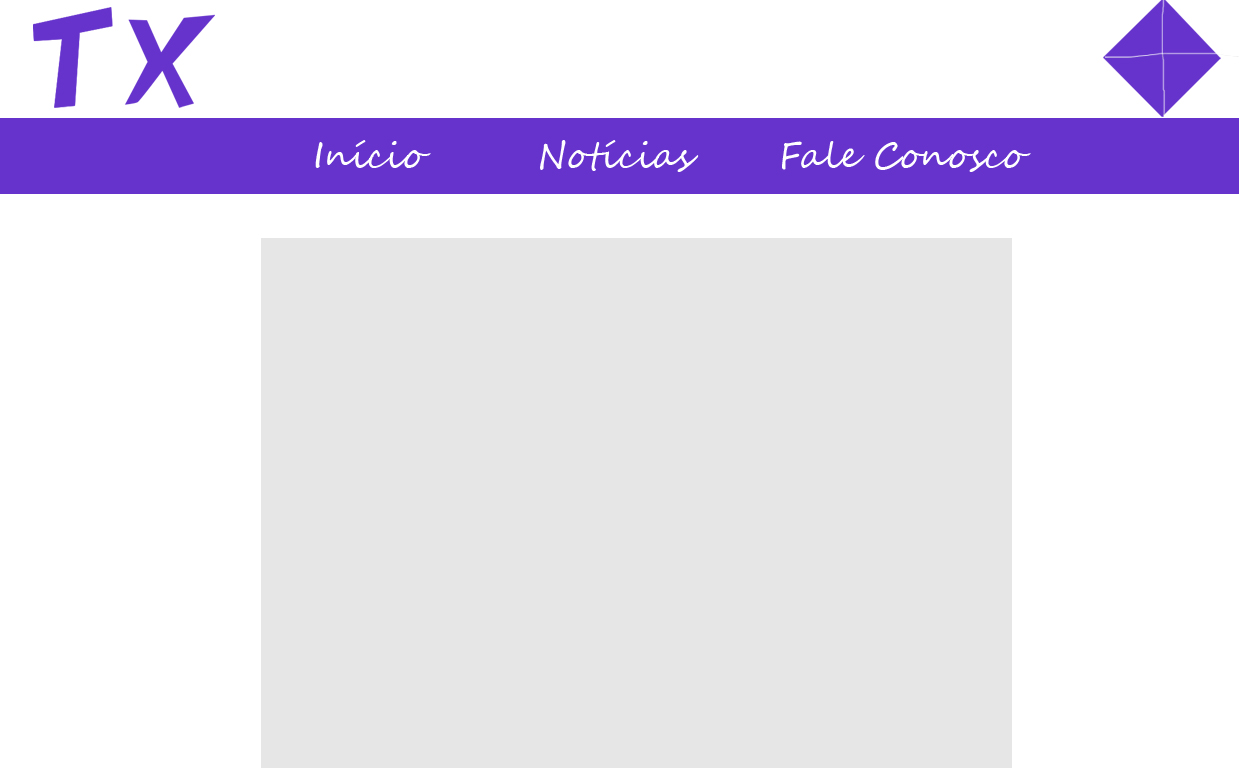
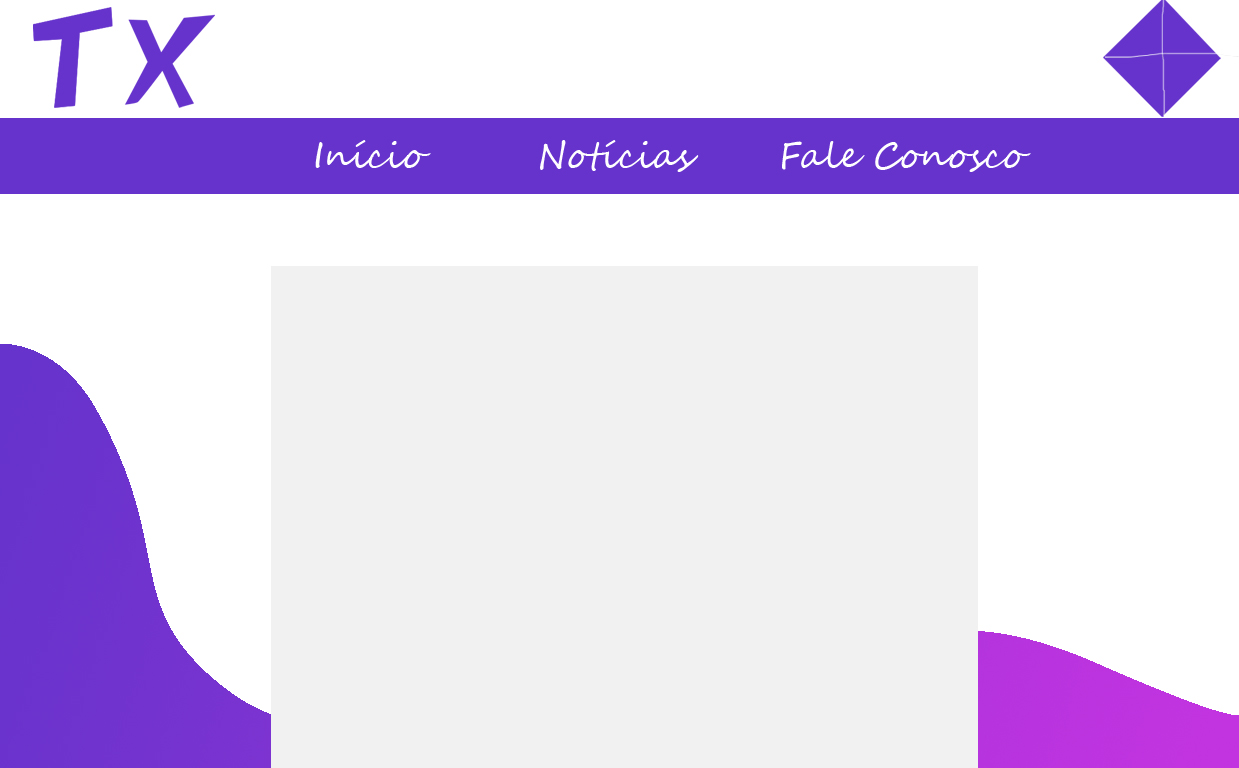
News prototypes of the screens.

Changed region(s): [[0.0, 0.3125, 1.0, 1.0]]

diff --git a/layout/src/scss/style.scss b/layout/src/scss/style.scss
@@ -29,5 +29,5 @@ div.background-img {
 
 // cover
 div.cover {
-  height: 30%;
+  height: 25%;
 }
